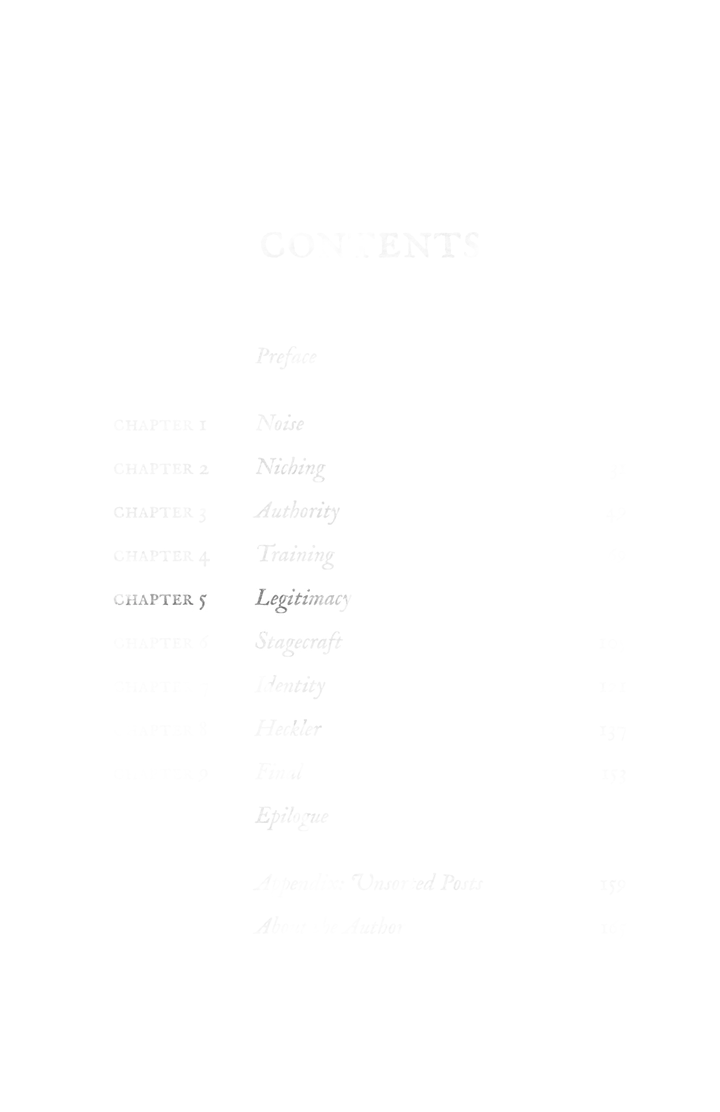
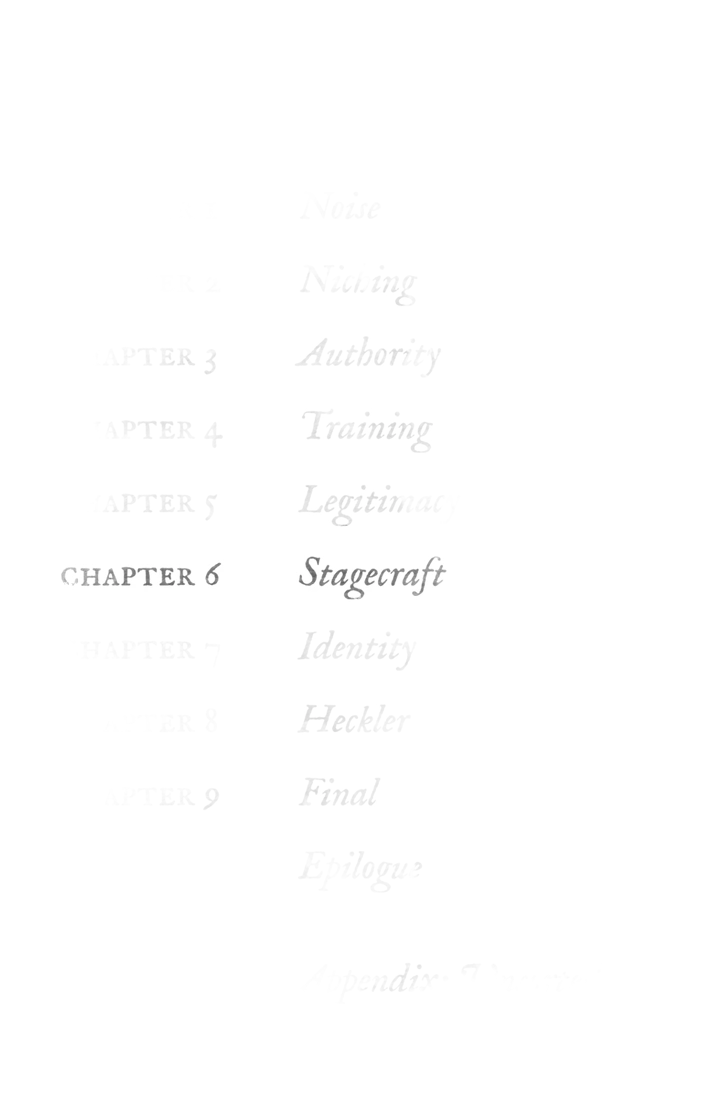
Highlight Chapter 6 in TOC fragment

diff --git a/door/style.css b/door/style.css
@@ -5,6 +5,14 @@
   padding: 0;
 }
 
+html, body {
+  width: 100%;
+  max-width: 100vw;
+  overflow-x: hidden;
+  margin: 0;
+  padding: 0;
+}
+
 body {
   background-color: #1f1f1f; /* Match the dark gray background from Krita */
   color: #e0e0e0;
@@ -12,7 +20,6 @@ body {
   min-height: 100vh;
   display: flex;
   justify-content: center;
-  overflow-x: hidden;
 }
 
 /* Vertical Scroll Column */
@@ -31,11 +38,14 @@ body {
   width: 100%;
   display: flex;
   justify-content: center;
+  overflow: hidden;
+  position: relative;
 }
 
 .frame.spill {
-  width: 135%; /* Expands 25% beyond the 360px parent container */
-  margin-left: -12.5%; /* Centers the oversized image */
+  width: 115%; /* Expands 25% beyond the 360px parent container */
+  margin-left: -7.5%;
+  /* Centers the oversized image */
 }
 
 /* Image Assets */

diff --git a/door/index.html b/door/index.html
@@ -39,7 +39,7 @@
                 </ol>
             </div>
 
-            <img src="assets/toc-v2.webp" alt="Table of Contents fragment. 'Chapter 5: Legitimacy' is highlighted." class="relic-img">
+            <img src="assets/toc-v2.webp" alt="Table of Contents fragment. 'Chapter 6: Stagecraft' is highlighted." class="relic-img">
         </section>
 
         <!-- Frame 2: Confusion Comments -->
